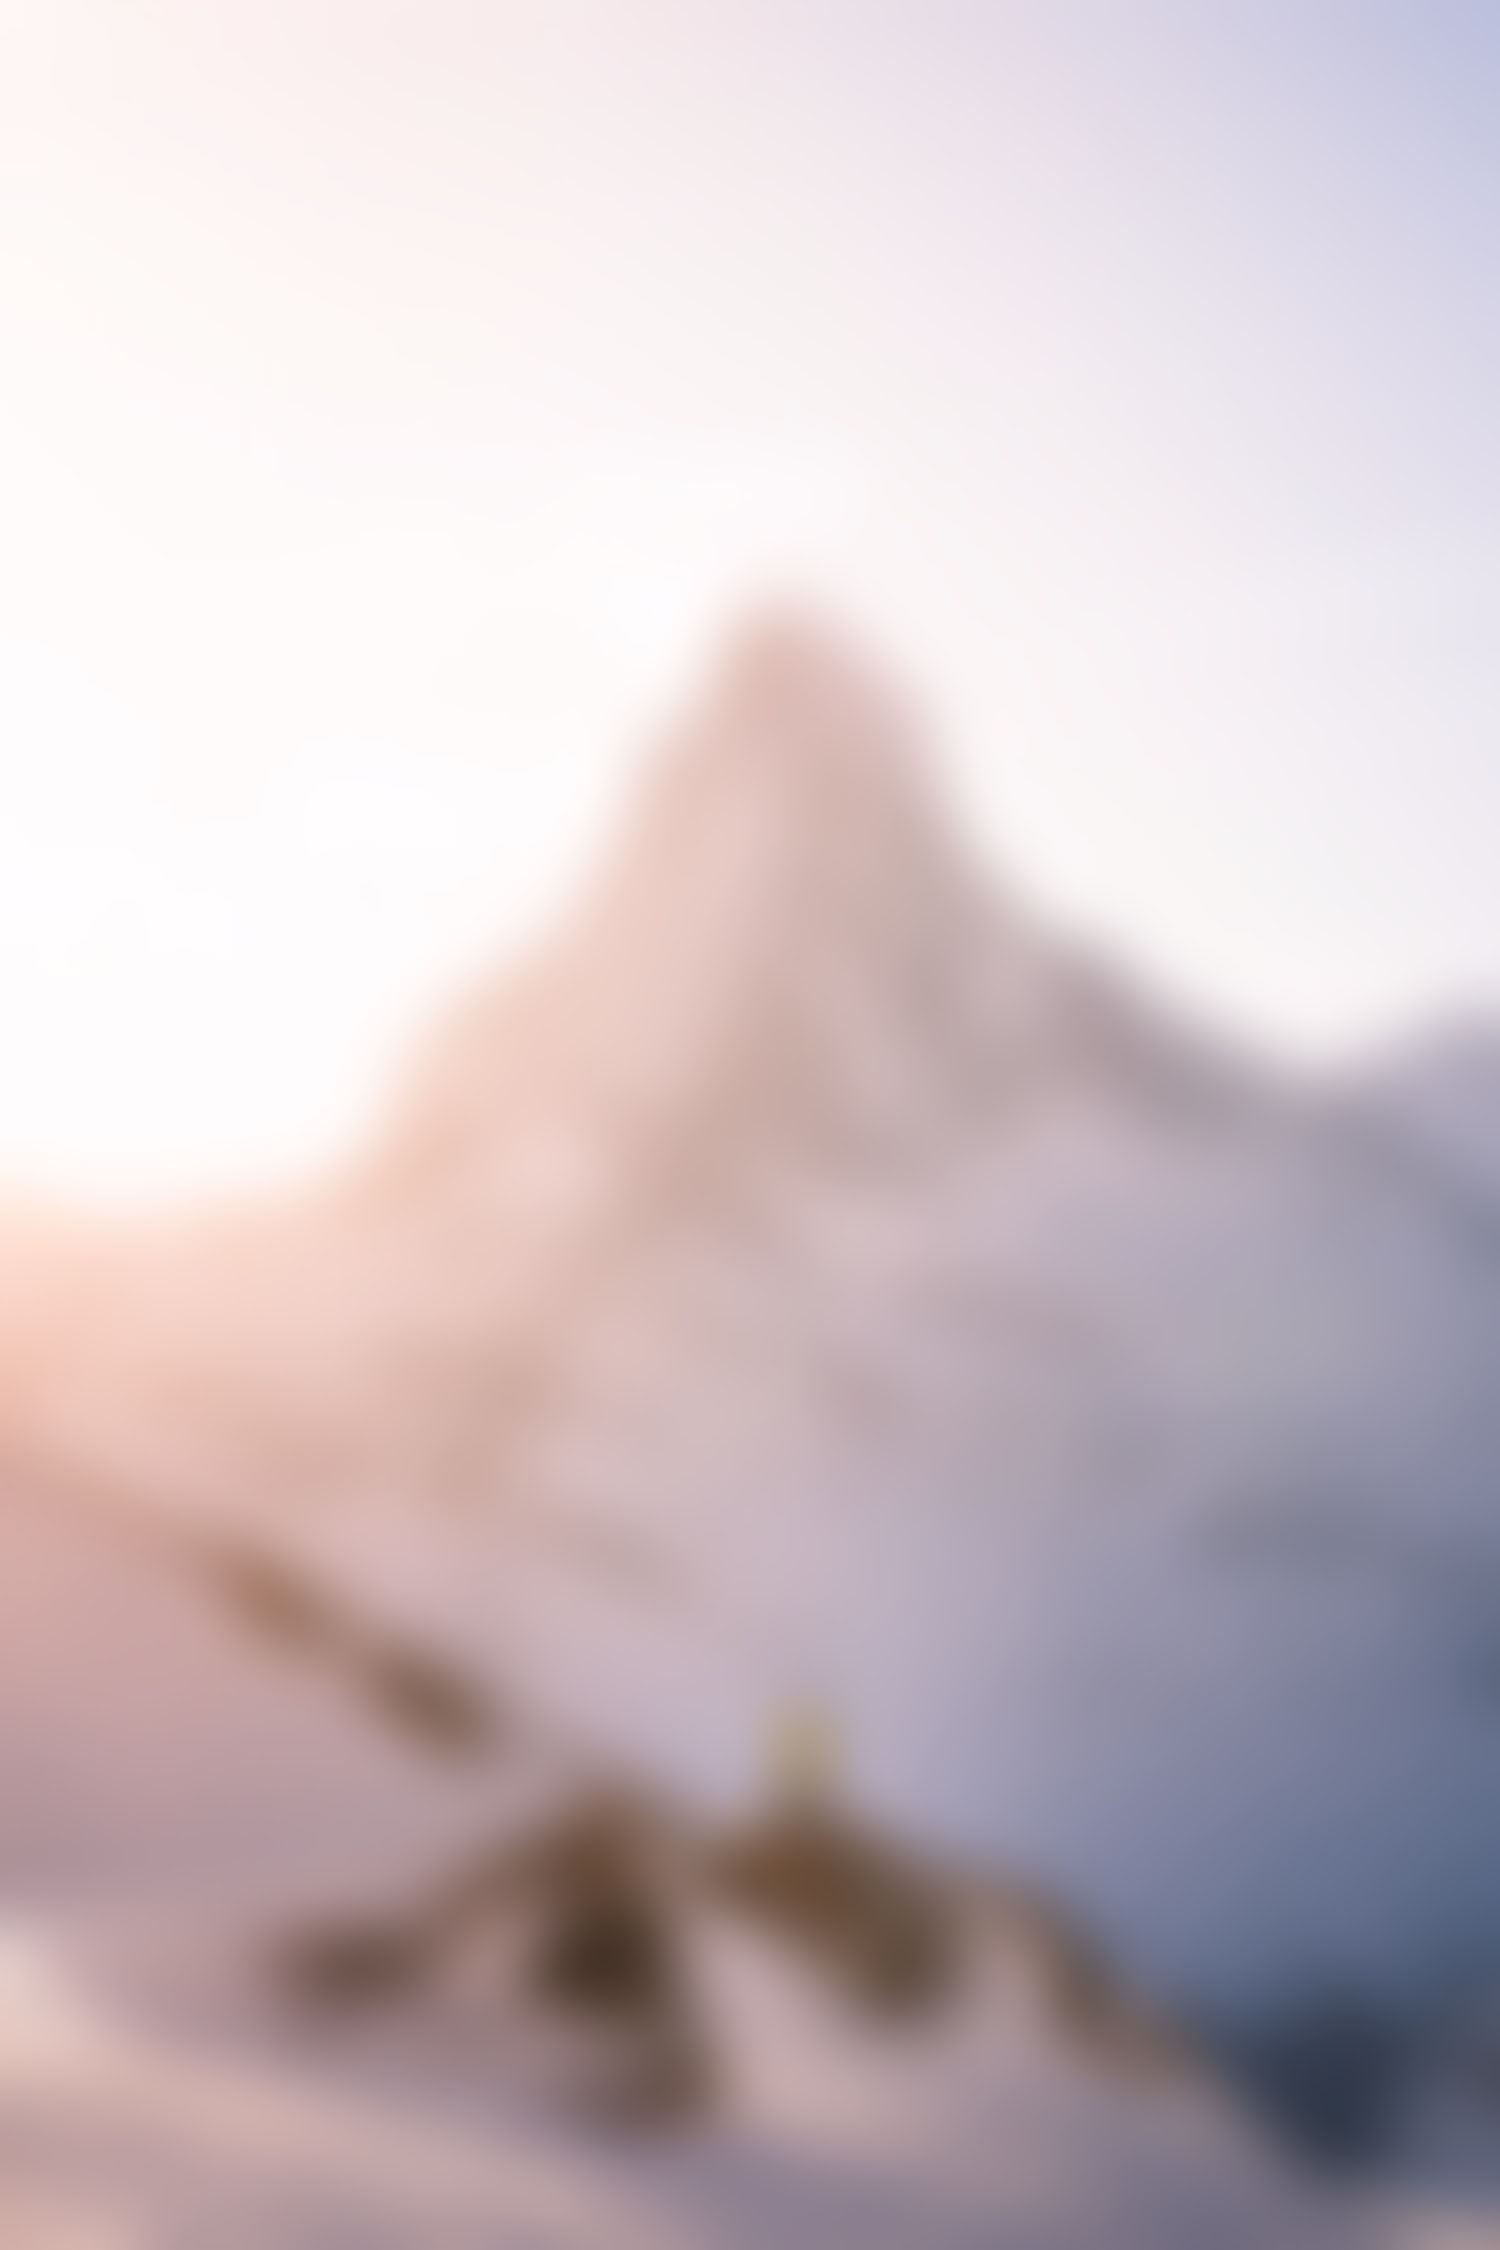
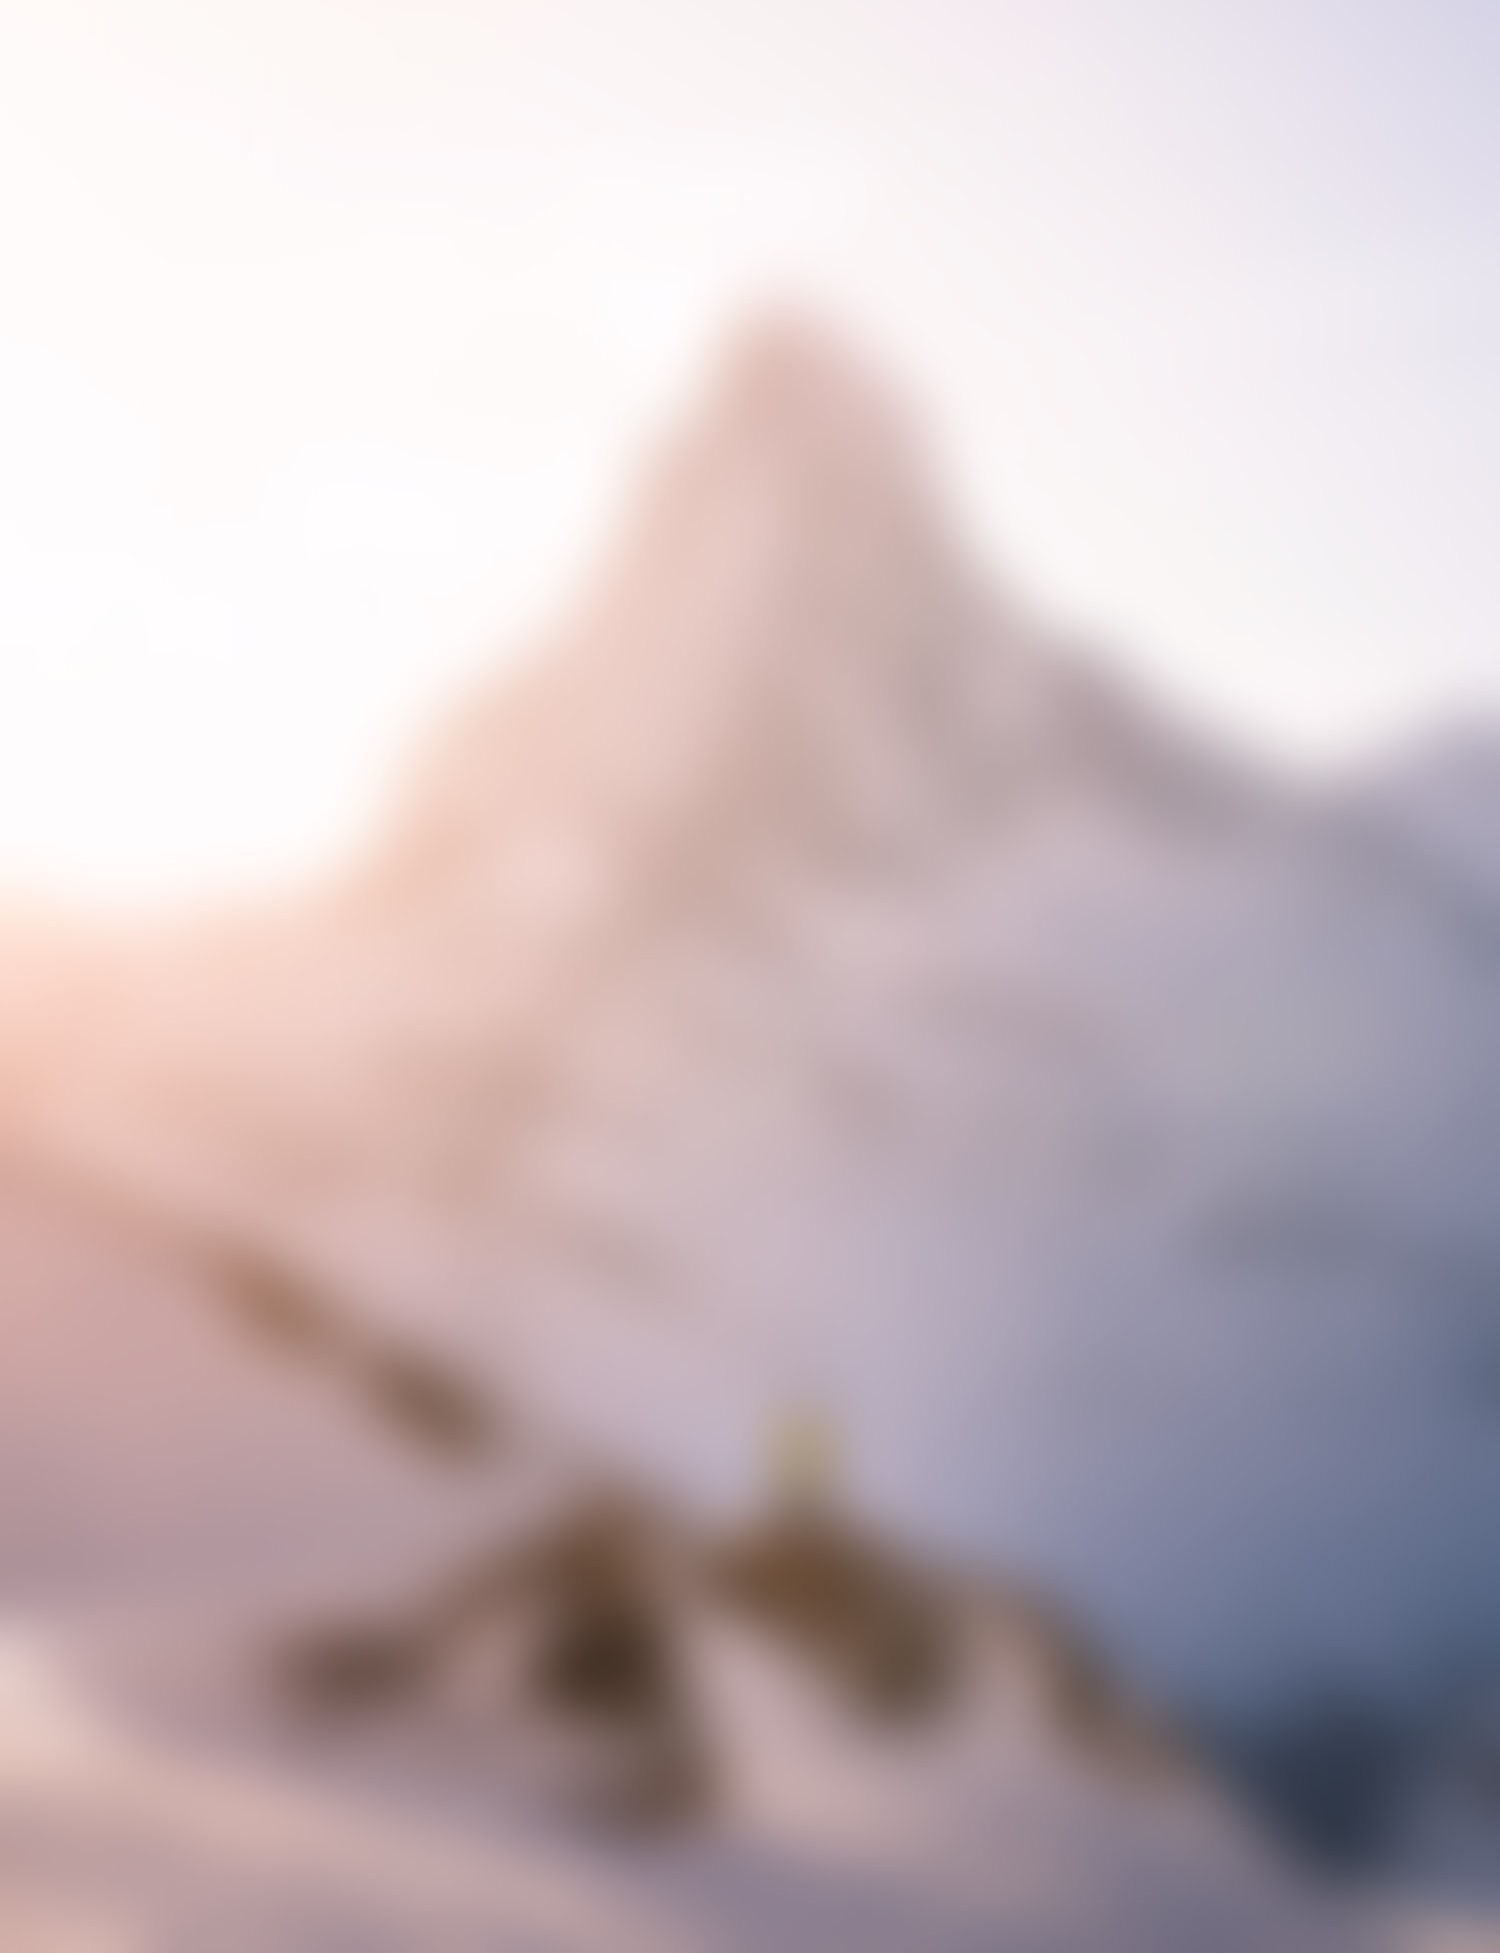
Исправил выбор случайного фона: изменил диапазон, чтобы последнее фото тоже входило. Изменил цвет иконки "Настройки" на индиго

diff --git a/source/EduCATS/Pages/Login/Views/LoginPageView.cs b/source/EduCATS/Pages/Login/Views/LoginPageView.cs
@@ -22,7 +22,7 @@ namespace EduCATS.Pages.Login.Views
 		readonly string[] _backgrounds = {
 			Theme.Current.LoginBackground1Image,
 			Theme.Current.LoginBackground2Image,
-			Theme.Current.LoginBackground3Image,
+			Theme.Current.LoginBackground3Image
 		};
 
 		const double _controlHeight = 50;
@@ -396,7 +396,7 @@ namespace EduCATS.Pages.Login.Views
 		string getRandomBackgroundImage()
 		{
 			var random = new Random();
-			var randomBackgroundIndex = random.Next(0, _backgrounds.Length - 1);
+			var randomBackgroundIndex = random.Next(0, _backgrounds.Length);
 			return _backgrounds[randomBackgroundIndex];
 		}
 